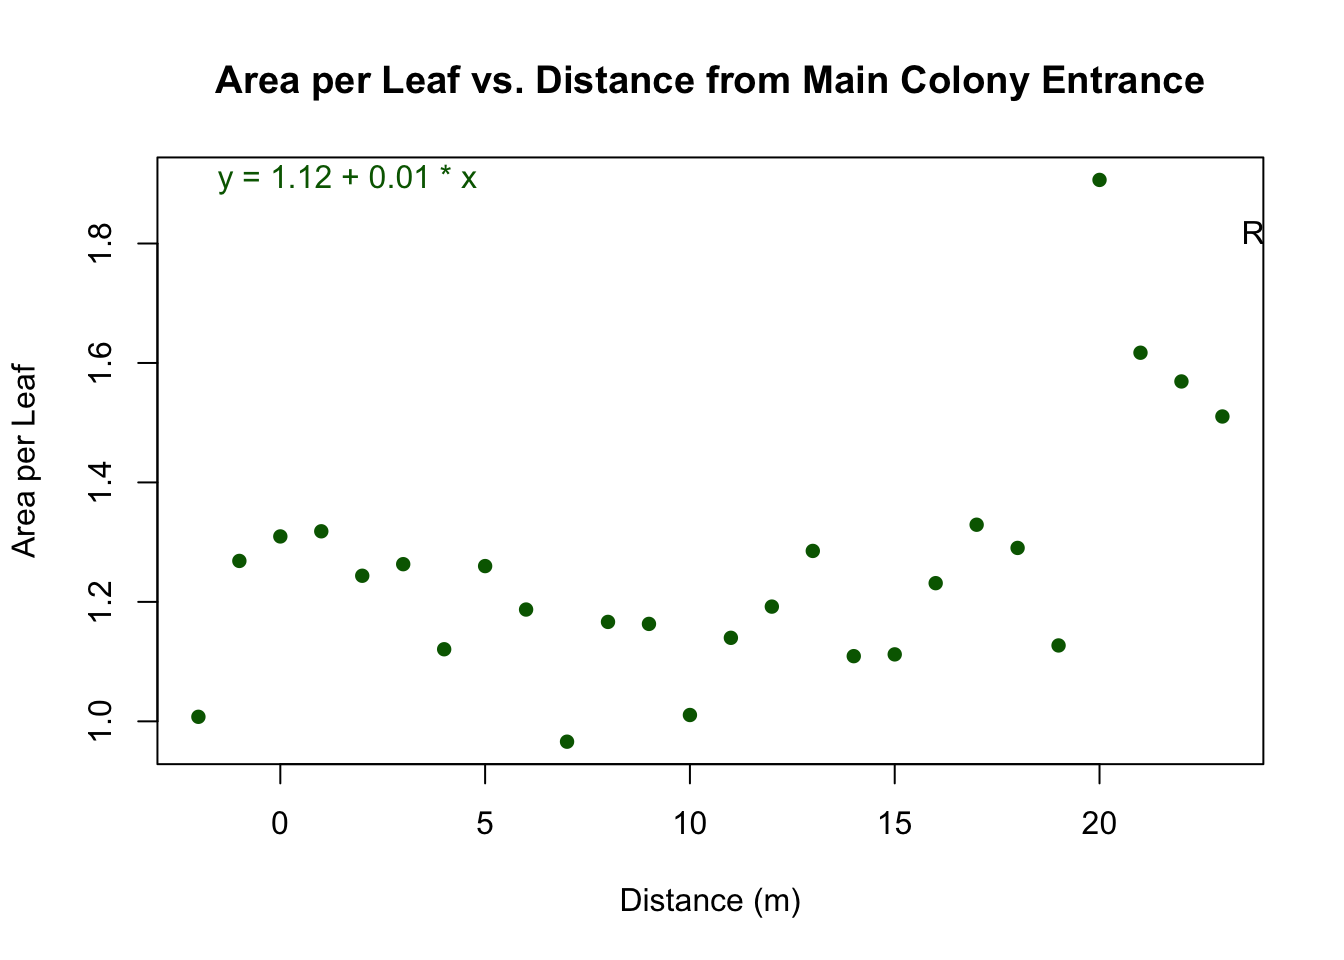
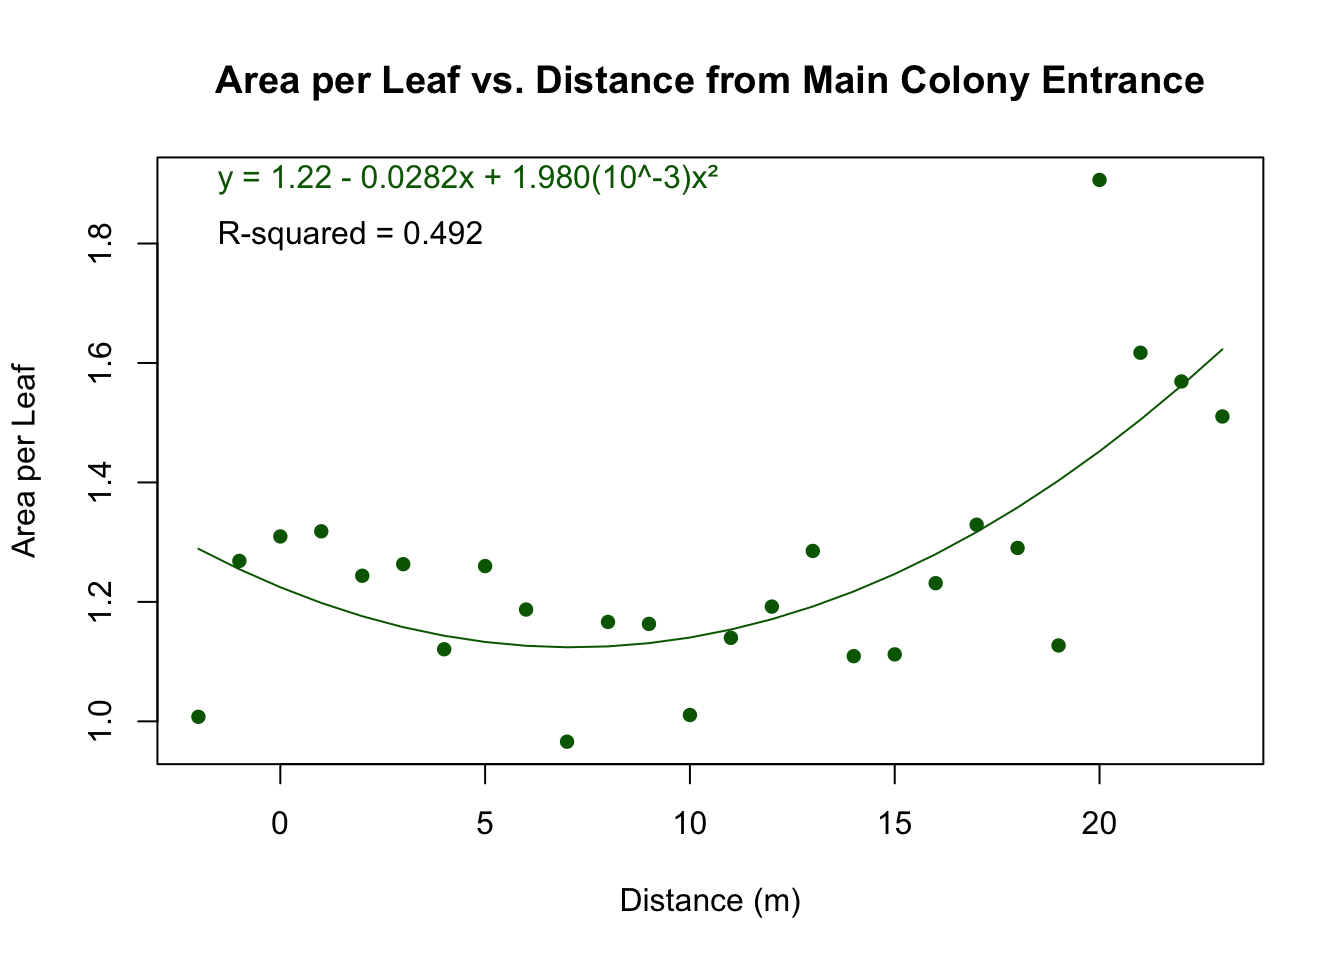
R

diff --git a/Leaf_analysis.html b/Leaf_analysis.html
@@ -562,27 +562,43 @@ dplyr 1.1.0.
 <span id="cb22-4"><a href="#cb22-4" aria-hidden="true" tabindex="-1"></a>  <span class="at">ml =</span> mass_per_leaf,</span>
 <span id="cb22-5"><a href="#cb22-5" aria-hidden="true" tabindex="-1"></a>  <span class="at">ma =</span> mass_per_area</span>
 <span id="cb22-6"><a href="#cb22-6" aria-hidden="true" tabindex="-1"></a>)</span>
-<span id="cb22-7"><a href="#cb22-7" aria-hidden="true" tabindex="-1"></a>df_4<span class="sc">$</span>x <span class="ot">&lt;-</span> <span class="fu">as.numeric</span>(<span class="fu">as.character</span>(df_4<span class="sc">$</span>x))</span>
-<span id="cb22-8"><a href="#cb22-8" aria-hidden="true" tabindex="-1"></a></span>
-<span id="cb22-9"><a href="#cb22-9" aria-hidden="true" tabindex="-1"></a><span class="co"># Fit a linear regression model</span></span>
-<span id="cb22-10"><a href="#cb22-10" aria-hidden="true" tabindex="-1"></a>model <span class="ot">&lt;-</span> <span class="fu">lm</span>(ar <span class="sc">~</span> x, <span class="at">data =</span> df_4)</span>
-<span id="cb22-11"><a href="#cb22-11" aria-hidden="true" tabindex="-1"></a></span>
-<span id="cb22-12"><a href="#cb22-12" aria-hidden="true" tabindex="-1"></a><span class="co"># Create a scatter plot</span></span>
-<span id="cb22-13"><a href="#cb22-13" aria-hidden="true" tabindex="-1"></a><span class="fu">plot</span>(df_4<span class="sc">$</span>x, df_4<span class="sc">$</span>ar, <span class="at">main =</span> <span class="st">"Area per Leaf vs. Distance from Main Colony Entrance"</span>, <span class="at">xlab =</span> <span class="st">"Distance (m)"</span>, <span class="at">ylab =</span> <span class="st">"Area per Leaf"</span>, <span class="at">col =</span> <span class="st">"darkgreen"</span>, <span class="at">pch =</span> <span class="dv">16</span>)</span>
-<span id="cb22-14"><a href="#cb22-14" aria-hidden="true" tabindex="-1"></a></span>
-<span id="cb22-15"><a href="#cb22-15" aria-hidden="true" tabindex="-1"></a><span class="co"># Extract coefficients</span></span>
-<span id="cb22-16"><a href="#cb22-16" aria-hidden="true" tabindex="-1"></a>coefficients <span class="ot">&lt;-</span> <span class="fu">coef</span>(model)</span>
-<span id="cb22-17"><a href="#cb22-17" aria-hidden="true" tabindex="-1"></a></span>
-<span id="cb22-18"><a href="#cb22-18" aria-hidden="true" tabindex="-1"></a><span class="co"># Add the equation of the line</span></span>
-<span id="cb22-19"><a href="#cb22-19" aria-hidden="true" tabindex="-1"></a>equation <span class="ot">&lt;-</span> <span class="fu">paste</span>(<span class="st">"y ="</span>, <span class="fu">round</span>(coefficients[<span class="dv">1</span>], <span class="dv">2</span>), <span class="st">"+"</span>, <span class="fu">round</span>(coefficients[<span class="dv">2</span>], <span class="dv">2</span>), <span class="st">"* x"</span>)</span>
-<span id="cb22-20"><a href="#cb22-20" aria-hidden="true" tabindex="-1"></a><span class="fu">text</span>(<span class="fu">min</span>(df_4<span class="sc">$</span>x), <span class="fu">max</span>(df_4<span class="sc">$</span>ar), equation, <span class="at">pos =</span> <span class="dv">4</span>, <span class="at">col =</span> <span class="st">"darkgreen"</span>)</span>
+<span id="cb22-7"><a href="#cb22-7" aria-hidden="true" tabindex="-1"></a></span>
+<span id="cb22-8"><a href="#cb22-8" aria-hidden="true" tabindex="-1"></a>df_4<span class="sc">$</span>x <span class="ot">&lt;-</span> <span class="fu">as.numeric</span>(<span class="fu">as.character</span>(df_4<span class="sc">$</span>x))</span>
+<span id="cb22-9"><a href="#cb22-9" aria-hidden="true" tabindex="-1"></a></span>
+<span id="cb22-10"><a href="#cb22-10" aria-hidden="true" tabindex="-1"></a><span class="co"># Fit a quadratic regression model</span></span>
+<span id="cb22-11"><a href="#cb22-11" aria-hidden="true" tabindex="-1"></a>model <span class="ot">&lt;-</span> <span class="fu">lm</span>(ar <span class="sc">~</span> <span class="fu">poly</span>(x, <span class="at">degree =</span> <span class="dv">2</span>, <span class="at">raw =</span> <span class="cn">TRUE</span>), <span class="at">data =</span> df_4)</span>
+<span id="cb22-12"><a href="#cb22-12" aria-hidden="true" tabindex="-1"></a></span>
+<span id="cb22-13"><a href="#cb22-13" aria-hidden="true" tabindex="-1"></a><span class="co"># Create a scatter plot</span></span>
+<span id="cb22-14"><a href="#cb22-14" aria-hidden="true" tabindex="-1"></a><span class="fu">plot</span>(df_4<span class="sc">$</span>x, df_4<span class="sc">$</span>ar, <span class="at">main =</span> <span class="st">"Area per Leaf vs. Distance from Main Colony Entrance"</span>, <span class="at">xlab =</span> <span class="st">"Distance (m)"</span>, <span class="at">ylab =</span> <span class="st">"Area per Leaf"</span>, <span class="at">col =</span> <span class="st">"darkgreen"</span>, <span class="at">pch =</span> <span class="dv">16</span>)</span>
+<span id="cb22-15"><a href="#cb22-15" aria-hidden="true" tabindex="-1"></a></span>
+<span id="cb22-16"><a href="#cb22-16" aria-hidden="true" tabindex="-1"></a><span class="co"># Add the quadratic regression curve</span></span>
+<span id="cb22-17"><a href="#cb22-17" aria-hidden="true" tabindex="-1"></a><span class="fu">lines</span>(df_4<span class="sc">$</span>x, <span class="fu">predict</span>(model), <span class="at">col =</span> <span class="st">"darkgreen"</span>, <span class="at">type =</span> <span class="st">"l"</span>)</span>
+<span id="cb22-18"><a href="#cb22-18" aria-hidden="true" tabindex="-1"></a></span>
+<span id="cb22-19"><a href="#cb22-19" aria-hidden="true" tabindex="-1"></a><span class="co"># Extract coefficients</span></span>
+<span id="cb22-20"><a href="#cb22-20" aria-hidden="true" tabindex="-1"></a>coefficients <span class="ot">&lt;-</span> <span class="fu">coef</span>(model)</span>
 <span id="cb22-21"><a href="#cb22-21" aria-hidden="true" tabindex="-1"></a></span>
-<span id="cb22-22"><a href="#cb22-22" aria-hidden="true" tabindex="-1"></a><span class="co"># Calculate R-squared</span></span>
-<span id="cb22-23"><a href="#cb22-23" aria-hidden="true" tabindex="-1"></a>r_squared <span class="ot">&lt;-</span> <span class="fu">summary</span>(model)<span class="sc">$</span>r.squared</span>
-<span id="cb22-24"><a href="#cb22-24" aria-hidden="true" tabindex="-1"></a></span>
-<span id="cb22-25"><a href="#cb22-25" aria-hidden="true" tabindex="-1"></a><span class="co"># Add R-squared value to the plot</span></span>
-<span id="cb22-26"><a href="#cb22-26" aria-hidden="true" tabindex="-1"></a>r_squared_text <span class="ot">&lt;-</span> <span class="fu">paste</span>(<span class="st">"R-squared ="</span>, <span class="fu">round</span>(r_squared, <span class="dv">3</span>))</span>
-<span id="cb22-27"><a href="#cb22-27" aria-hidden="true" tabindex="-1"></a><span class="fu">text</span>(<span class="fu">max</span>(df_4<span class="sc">$</span>x), <span class="fu">max</span>(df_4<span class="sc">$</span>ar) <span class="sc">-</span> <span class="fl">0.1</span> <span class="sc">*</span> <span class="fu">diff</span>(<span class="fu">range</span>(df_4<span class="sc">$</span>ar)), r_squared_text, <span class="at">pos =</span> <span class="dv">4</span>, <span class="at">col =</span> <span class="st">"black"</span>)</span></code><button title="Copy to Clipboard" class="code-copy-button"><i class="bi"></i></button></pre></div>
+<span id="cb22-22"><a href="#cb22-22" aria-hidden="true" tabindex="-1"></a><span class="co"># Custom function for formatting in scientific notation with 10^-n</span></span>
+<span id="cb22-23"><a href="#cb22-23" aria-hidden="true" tabindex="-1"></a>format_sci_notation <span class="ot">&lt;-</span> <span class="cf">function</span>(value, <span class="at">digits =</span> <span class="dv">3</span>) {</span>
+<span id="cb22-24"><a href="#cb22-24" aria-hidden="true" tabindex="-1"></a>  exponent <span class="ot">&lt;-</span> <span class="fu">floor</span>(<span class="fu">log10</span>(<span class="fu">abs</span>(value)))</span>
+<span id="cb22-25"><a href="#cb22-25" aria-hidden="true" tabindex="-1"></a>  coefficient <span class="ot">&lt;-</span> value <span class="sc">/</span> <span class="dv">10</span><span class="sc">^</span>exponent</span>
+<span id="cb22-26"><a href="#cb22-26" aria-hidden="true" tabindex="-1"></a>  <span class="fu">return</span>(<span class="fu">paste0</span>(<span class="fu">format</span>(<span class="fu">signif</span>(coefficient, <span class="at">digits =</span> digits), <span class="at">nsmall =</span> digits), <span class="st">"(10^-"</span>, <span class="fu">abs</span>(exponent),<span class="st">")"</span>))</span>
+<span id="cb22-27"><a href="#cb22-27" aria-hidden="true" tabindex="-1"></a>}</span>
+<span id="cb22-28"><a href="#cb22-28" aria-hidden="true" tabindex="-1"></a></span>
+<span id="cb22-29"><a href="#cb22-29" aria-hidden="true" tabindex="-1"></a><span class="co"># Add the equation of the curve in scientific notation with 3 sigfigs</span></span>
+<span id="cb22-30"><a href="#cb22-30" aria-hidden="true" tabindex="-1"></a>equation <span class="ot">&lt;-</span> <span class="fu">paste0</span>(<span class="st">"y = "</span>, <span class="fu">format</span>(<span class="fu">signif</span>(coefficients[<span class="dv">1</span>], <span class="at">digits =</span> <span class="dv">3</span>)), </span>
+<span id="cb22-31"><a href="#cb22-31" aria-hidden="true" tabindex="-1"></a>                  <span class="fu">ifelse</span>(coefficients[<span class="dv">2</span>] <span class="sc">&lt;</span> <span class="dv">0</span>, <span class="st">" - "</span>, <span class="st">" + "</span>), </span>
+<span id="cb22-32"><a href="#cb22-32" aria-hidden="true" tabindex="-1"></a>                  <span class="fu">format</span>(<span class="fu">abs</span>(<span class="fu">signif</span>(coefficients[<span class="dv">2</span>], <span class="at">digits =</span> <span class="dv">3</span>))), <span class="st">"x"</span>, </span>
+<span id="cb22-33"><a href="#cb22-33" aria-hidden="true" tabindex="-1"></a>                  <span class="fu">ifelse</span>(coefficients[<span class="dv">3</span>] <span class="sc">&lt;</span> <span class="dv">0</span>, <span class="st">" - "</span>, <span class="st">" + "</span>), </span>
+<span id="cb22-34"><a href="#cb22-34" aria-hidden="true" tabindex="-1"></a>                  <span class="fu">format_sci_notation</span>(<span class="fu">abs</span>(coefficients[<span class="dv">3</span>])), <span class="st">"x²"</span>)</span>
+<span id="cb22-35"><a href="#cb22-35" aria-hidden="true" tabindex="-1"></a></span>
+<span id="cb22-36"><a href="#cb22-36" aria-hidden="true" tabindex="-1"></a><span class="fu">text</span>(<span class="fu">min</span>(df_4<span class="sc">$</span>x), <span class="fu">max</span>(df_4<span class="sc">$</span>ar), equation, <span class="at">pos =</span> <span class="dv">4</span>, <span class="at">col =</span> <span class="st">"darkgreen"</span>)</span>
+<span id="cb22-37"><a href="#cb22-37" aria-hidden="true" tabindex="-1"></a></span>
+<span id="cb22-38"><a href="#cb22-38" aria-hidden="true" tabindex="-1"></a><span class="co"># Calculate R-squared</span></span>
+<span id="cb22-39"><a href="#cb22-39" aria-hidden="true" tabindex="-1"></a>r_squared <span class="ot">&lt;-</span> <span class="fu">summary</span>(model)<span class="sc">$</span>r.squared</span>
+<span id="cb22-40"><a href="#cb22-40" aria-hidden="true" tabindex="-1"></a></span>
+<span id="cb22-41"><a href="#cb22-41" aria-hidden="true" tabindex="-1"></a><span class="co"># Add R-squared value to the plot</span></span>
+<span id="cb22-42"><a href="#cb22-42" aria-hidden="true" tabindex="-1"></a>r_squared_text <span class="ot">&lt;-</span> <span class="fu">paste</span>(<span class="st">"R-squared ="</span>, <span class="fu">round</span>(r_squared, <span class="dv">3</span>))</span>
+<span id="cb22-43"><a href="#cb22-43" aria-hidden="true" tabindex="-1"></a><span class="fu">text</span>(<span class="fu">min</span>(df_4<span class="sc">$</span>x), <span class="fu">max</span>(df_4<span class="sc">$</span>ar) <span class="sc">-</span> <span class="fl">0.1</span> <span class="sc">*</span> <span class="fu">diff</span>(<span class="fu">range</span>(df_4<span class="sc">$</span>ar)), r_squared_text, <span class="at">pos =</span> <span class="dv">4</span>, <span class="at">col =</span> <span class="st">"black"</span>)</span></code><button title="Copy to Clipboard" class="code-copy-button"><i class="bi"></i></button></pre></div>
 <div class="cell-output-display">
 <p><img src="Leaf_analysis_files/figure-html/unnamed-chunk-19-1.png" class="img-fluid" width="672"></p>
 </div>
